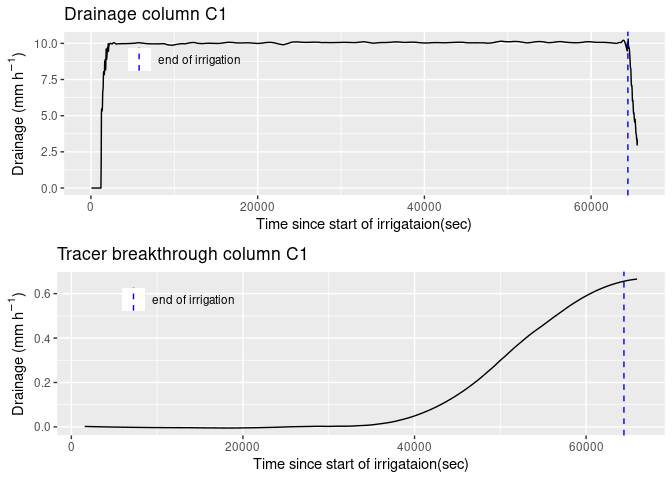
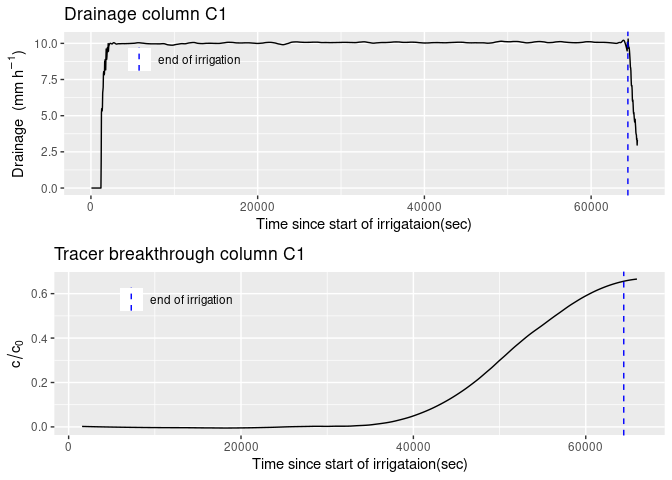
Smoothing of tracer breakthrough.

diff --git a/README.md b/README.md
@@ -1,7 +1,7 @@
 ViscousFlow
 ================
 Christina Bogner
-2020-10-28
+2020-11-06
 
 <!-- README.md is generated from README.Rmd. Please edit that file -->
 
@@ -86,7 +86,6 @@ Plot the data.
 ``` r
 g_all <- list(geom_line(),
   xlab('Time since start of irrigataion(sec)'),
-  ylab(expression(paste('Drainage (mm ', h^{-1}, ')'))),
   geom_vline(aes(xintercept = TE, col = 'TE'), lty = 2),
   scale_colour_manual(name = ' ', values = ('end of irrigation' = 'blue'),
                       labels = 'end of irrigation'),
@@ -96,10 +95,12 @@ g_all <- list(geom_line(),
 
 g1 <- ggplot(data = drainage, aes(x = time_sec, y = q_mmh)) + 
   g_all +
+  ylab(expression(paste('Drainage  (mm ', h^{-1}, ')'))) +
   ggtitle('Drainage column C1')
 
 g2 <- ggplot(data = tracer, aes(x = time, y = value)) + 
   g_all +
+    ylab(expression(c/c[0]))  +
   ggtitle('Tracer breakthrough column C1')
 
 grid.arrange(g1, g2, ncol = 1)
